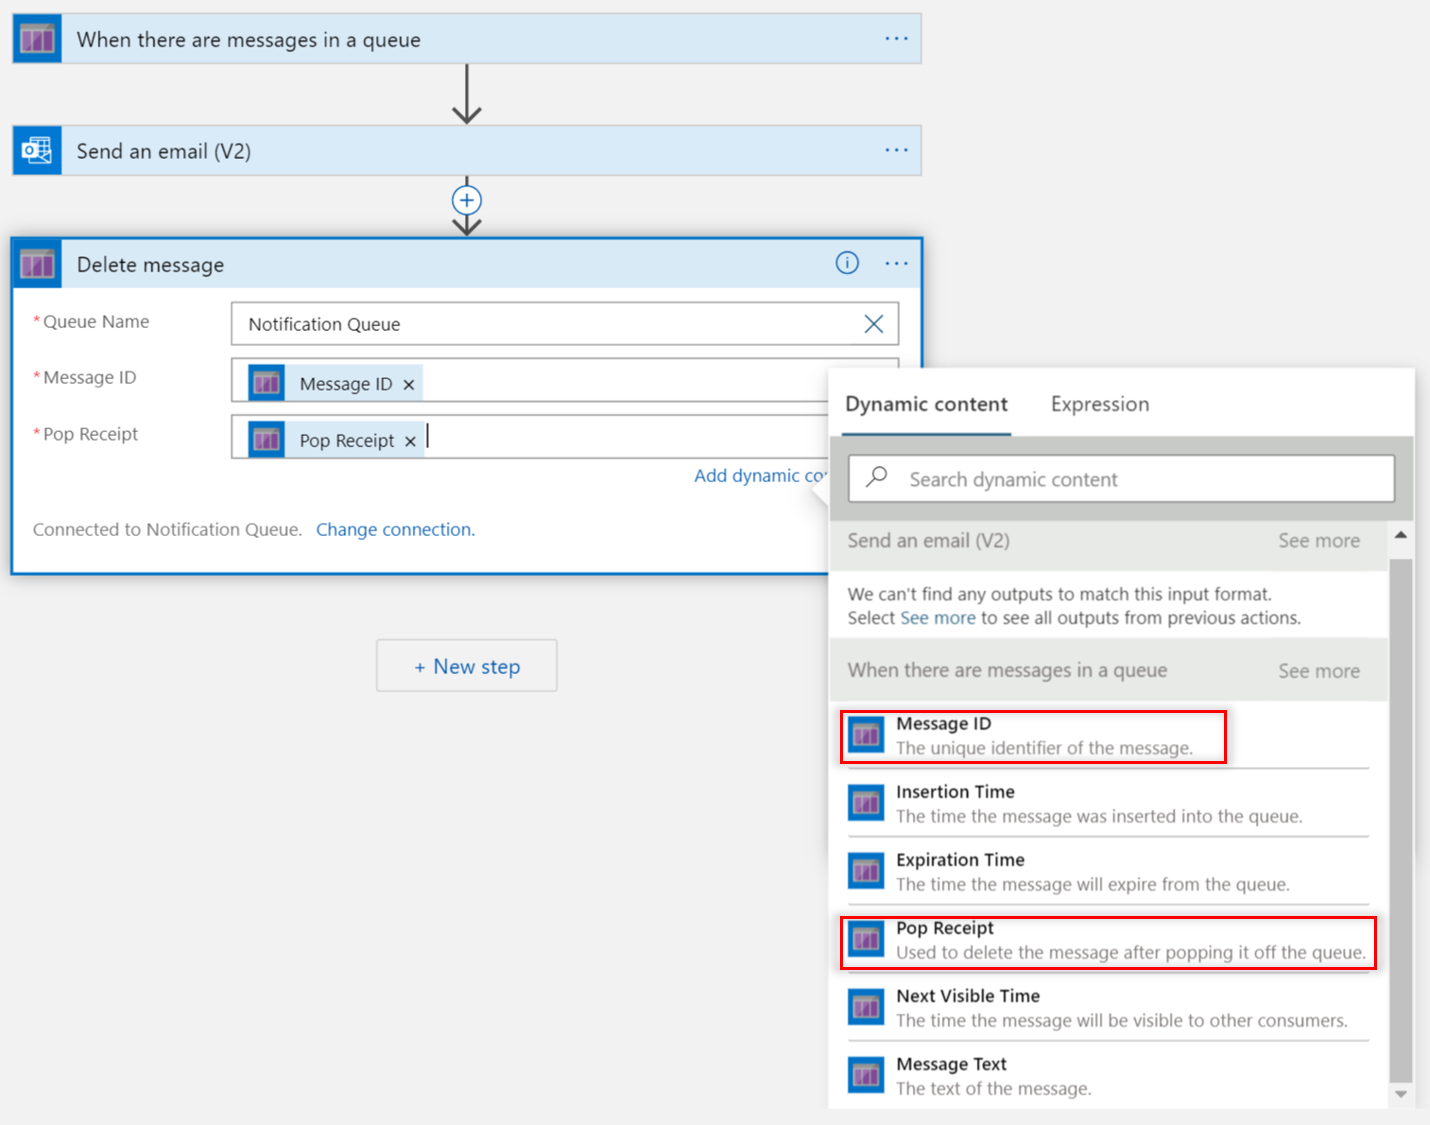
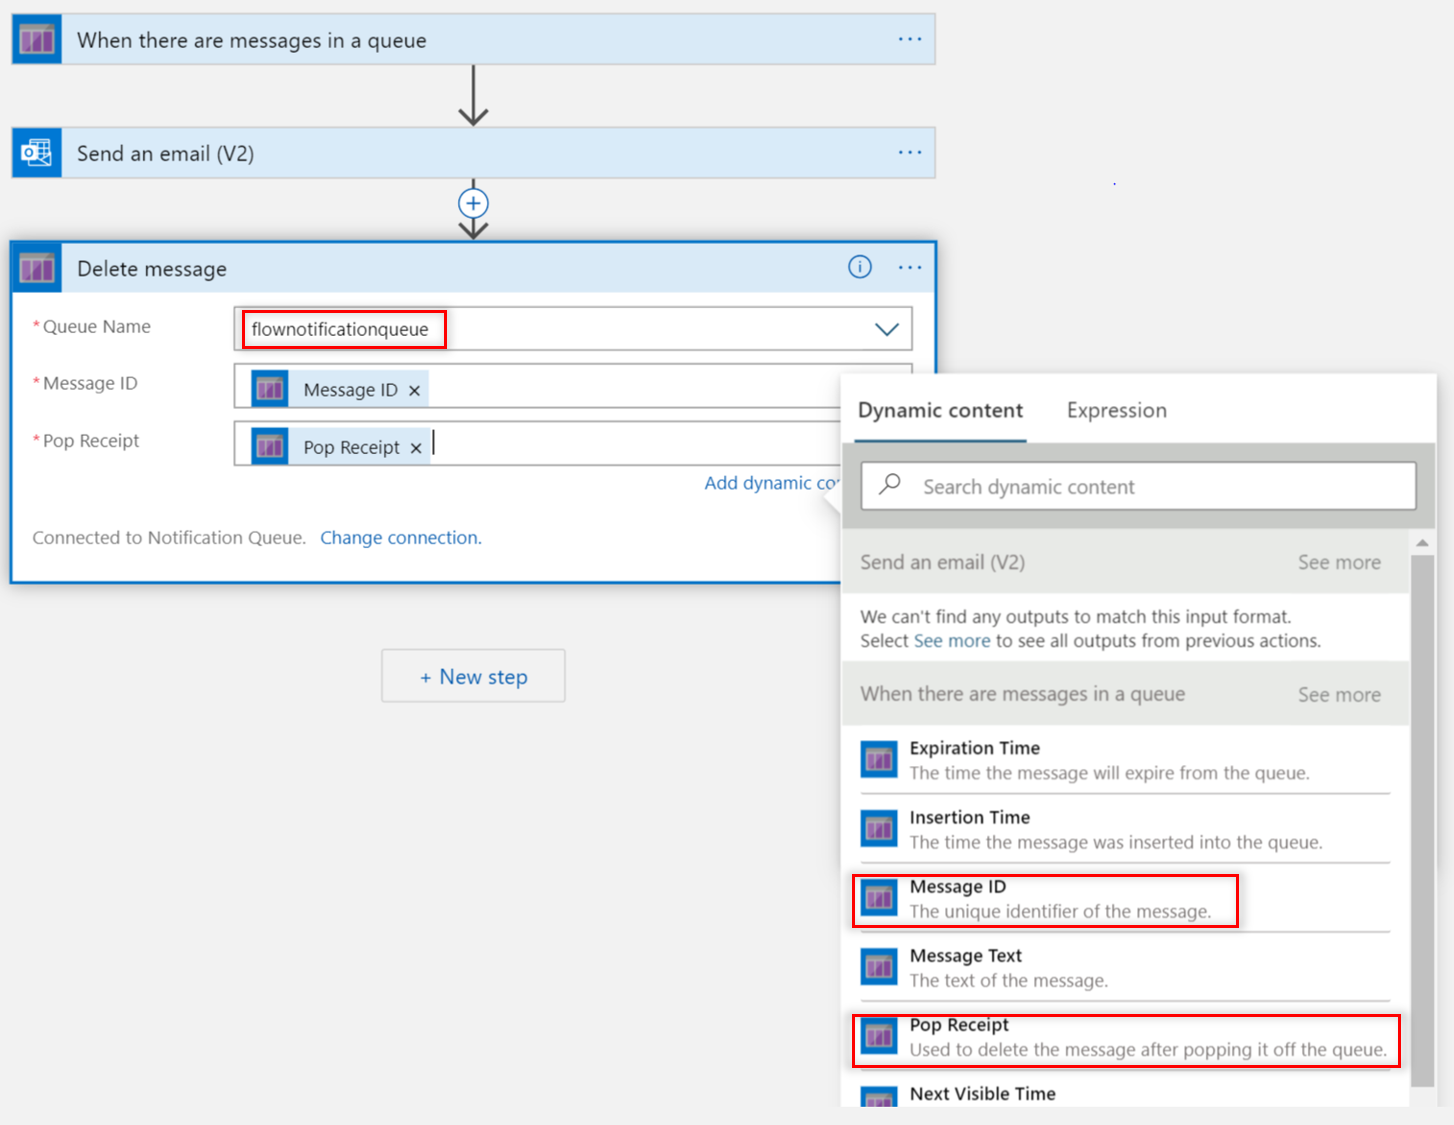
Updated logic app documentation

diff --git a/Hands-on lab/HOL step-by step - Predictive Maintenance for remote field devices.md b/Hands-on lab/HOL step-by step - Predictive Maintenance for remote field devices.md
@@ -61,7 +61,7 @@ Microsoft and the trademarks listed at <https://www.microsoft.com/en-us/legal/in
     - [Task 1: Create an Azure Function Application](#task-1-create-an-azure-function-application)
     - [Task 2: Create a notification table in Azure Storage](#task-2-create-a-notification-table-in-azure-storage)
     - [Task 3: Create a notification queue in Azure Storage](#task-3-create-a-notification-queue-in-azure-storage)
-    - [Task 4: Create notification service in Microsoft Flow](#task-4-create-notification-service-in-microsoft-flow)
+    - [Task 4: Create notification service with Azure Logic Apps](#task-4-create-notification-service-with-azure-logic-apps)
     - [Task 5: Obtain connection settings for use with the Azure Function implementation](#task-5-obtain-connection-settings-for-use-with-the-azure-function-implementation)
     - [Task 6: Create the local settings file for the Azure Functions project](#task-6-create-the-local-settings-file-for-the-azure-functions-project)
     - [Task 7: Review the Azure Function code](#task-7-review-the-azure-function-code)
@@ -91,7 +91,7 @@ The Predictive Maintenance for Remote Field Devices hands-on lab is an exercise 
 
 ![The architecture diagram shows the components of the preferred solution.](media/preferred-solution.png "High-level architecture")
 
-[Azure IoT Central](https://docs.microsoft.com/azure/iot-central/overview-iot-central) is at the core of the preferred solution. It is used for data ingest, device management, data storage, and reporting. IoT field devices securely connect to IoT Central through its cloud gateway. The continuous export component sends device telemetry data to [Azure Blob storage](https://docs.microsoft.com/azure/storage/blobs/storage-blobs-overview) for cold storage, and the same data to [Azure Event Hubs](https://docs.microsoft.com/azure/event-hubs/event-hubs-about) for real-time processing. Azure Databricks uses the data stored in cold storage to periodically re-train a Machine Learning (ML) model to detect oil pump failures. It is also used to deploy the trained model to a web service hosted by [Azure Kubernetes Service](https://docs.microsoft.com/azure/aks/) (AKS) or [Azure Container Instances](https://docs.microsoft.com/azure/container-instances/) (ACI), using [Azure Machine Learning](https://docs.microsoft.com/azure/machine-learning/service/overview-what-is-azure-ml). An [Azure function](https://docs.microsoft.com/azure/azure-functions/functions-overview) is triggered by events flowing through Event Hubs. It sends the event data for each pump to the web service hosting the deployed model, then sends an alert through [Microsoft Flow](https://flow.microsoft.com/) if an alert has not been sent within a configurable period of time. The alert is sent in the form of an email, identifying the failing oil pump with a suggestion to service the device.
+[Azure IoT Central](https://docs.microsoft.com/azure/iot-central/overview-iot-central) is at the core of the preferred solution. It is used for data ingest, device management, data storage, and reporting. IoT field devices securely connect to IoT Central through its cloud gateway. The continuous export component sends device telemetry data to [Azure Blob storage](https://docs.microsoft.com/azure/storage/blobs/storage-blobs-overview) for cold storage, and the same data to [Azure Event Hubs](https://docs.microsoft.com/azure/event-hubs/event-hubs-about) for real-time processing. Azure Databricks uses the data stored in cold storage to periodically re-train a Machine Learning (ML) model to detect oil pump failures. It is also used to deploy the trained model to a web service hosted by [Azure Kubernetes Service](https://docs.microsoft.com/azure/aks/) (AKS) or [Azure Container Instances](https://docs.microsoft.com/azure/container-instances/) (ACI), using [Azure Machine Learning](https://docs.microsoft.com/azure/machine-learning/service/overview-what-is-azure-ml). An [Azure function](https://docs.microsoft.com/azure/azure-functions/functions-overview) is triggered by events flowing through Event Hubs. It sends the event data for each pump to the web service hosting the deployed model, then sends an alert through [Azure Logic Apps](https://azure.microsoft.com/en-us/services/logic-apps/) if an alert has not been sent within a configurable period of time. The alert is sent in the form of an email, identifying the failing oil pump with a suggestion to service the device.
 
 _Azure IoT Central architecture_
 
@@ -551,7 +551,7 @@ It is beneficial to see the location and power state of certain critical Texas r
 
 Duration: 15 minutes
 
-IoT Central provides a great first stepping stone into a larger IoT solution. Earlier in this lab, we responded to a crossed threshold by initiating an email sent to Fabrikam field workers through Flow directly from IoT Central. While this approach certainly does add value, a more mature IoT solution typically involves a machine learning model that will process incoming telemetry to logically determine if a failure of a pump is imminent. The first step into this implementation is to create an Event Hub to act as a destination for IoT Centrals continuously exported data.
+IoT Central provides a great first stepping stone into a larger IoT solution. Earlier in this lab, we responded to a crossed threshold by initiating an email sent to Fabrikam field workers through Logic Apps directly from IoT Central. While this approach certainly does add value, a more mature IoT solution typically involves a machine learning model that will process incoming telemetry to logically determine if a failure of a pump is imminent. The first step into this implementation is to create an Event Hub to act as a destination for IoT Centrals continuously exported data.
 
 ### Task 1: Create an Event Hub
 
@@ -684,7 +684,7 @@ After training the model, we validate it, then register the model in your Azure 
 
 Duration: 45 minutes
 
-We will be using an Azure Function to read incoming telemetry from IoT Hub and send it to the HTTP endpoint of our predictive maintenance model. The function will receive a 0 or 1 from the model indicating whether or not a pump should be maintained to avoid possible failure. A notification will also be initiated through Flow to notify Field Workers of the maintenance required.
+We will be using an Azure Function to read incoming telemetry from IoT Hub and send it to the HTTP endpoint of our predictive maintenance model. The function will receive a 0 or 1 from the model indicating whether or not a pump should be maintained to avoid possible failure. A notification will also be initiated through Logic Apps to notify Field Workers of the maintenance required.
 
 ### Task 1: Create an Azure Function Application
 
@@ -738,7 +738,7 @@ One of the things we would like to avoid is sending repeated notifications to th
 
 ### Task 3: Create a notification queue in Azure Storage
 
-There are many ways to trigger flows in Microsoft Flow. One of them is having Flow monitor an Azure Queue. We will use a Queue in our Azure Storage Account to host this queue.
+There are many ways to trigger workflows in Logic Apps. One of them is having a logic app monitor an Azure Queue. We will use a Queue in our Azure Storage Account to host this queue.
 
 1. From the Storage Account left-hand menu, select **Queues** located beneath the _Queue service_ section, then select the **+ Queue** button, and create a new queue named **flownotificationqueue**.
 
@@ -779,11 +779,11 @@ We will be using [Azure Logic Apps](https://azure.microsoft.com/en-us/services/l
 
    ![Available actions are displayed, enter Azure queues and click When there are messages in queue option.](media/logic-app-messages-in-queue.png "Select Messages in Queue")
 
-7. When prompted to connect to a storage account, select the storage account used as a notification queue in Task 3, enter *Notification Queue* under the Connection Name, then click **Create**. 
+7. When prompted to connect to a storage account, select the storage account used as a notification queue in Task 3. 
 
    ![Available storage accounts to connect to.](media/logic-app-queue-connection.png "Connect to Storage Account")
 
-8. To finalize your action configuration, enter *Notification Queue* under Queue Name - if prompted approve this as a custom value. Then click **+ New step**.
+8. Once your connection has been created, select *flownotificationqueue* under Queue Name, then click **+ New step**.
 
    ![Messages in queue action configuration.](media/logic-app-confirm-queue-setup.png "Finalize Queue Action Configuration.")
 
@@ -817,7 +817,7 @@ We will be using [Azure Logic Apps](https://azure.microsoft.com/en-us/services/l
 
     | Field       | Value                                                                               |
     | ----------- | ----------------------------------------------------------------------------------- |
-    | Queue Name  | Notification Queue                                                               |
+    | Queue Name  | flownotificationqueue                                                               |
     | Message ID  | _put cursor in the field, then select **Message ID** from the Dynamic Content menu_  |
     | Pop Receipt | _put cursor in the field, then select **Pop Receipt** from the Dynamic Content menu_ |
 
@@ -970,9 +970,5 @@ Duration: 10 minutes
 2. In the [Azure Portal](https://portal.azure.com), select **Resource Groups**, open the resource group that you created in Exercise 6, and select the **Delete resource group** button.
 
    ![The Azure Resource Group panel is displayed. The Delete resource group link is circled.](media/delete-resource-group.png "Delete the Resource Group")
-
-3. Delete Microsoft Flows that we created. Access Microsoft Flow and login. From the left-hand menu, select **My flows**. Select the ellipsis button next to each flow that we created in this lab and select **Delete**.
-
-   ![The Azure Flows panel is displayed. The ellipsis and delete links are circled.](media/delete-flow.png "Delete Microsoft Flow processes")
 
 You should follow all steps provided *after* attending the Hands-on lab.
